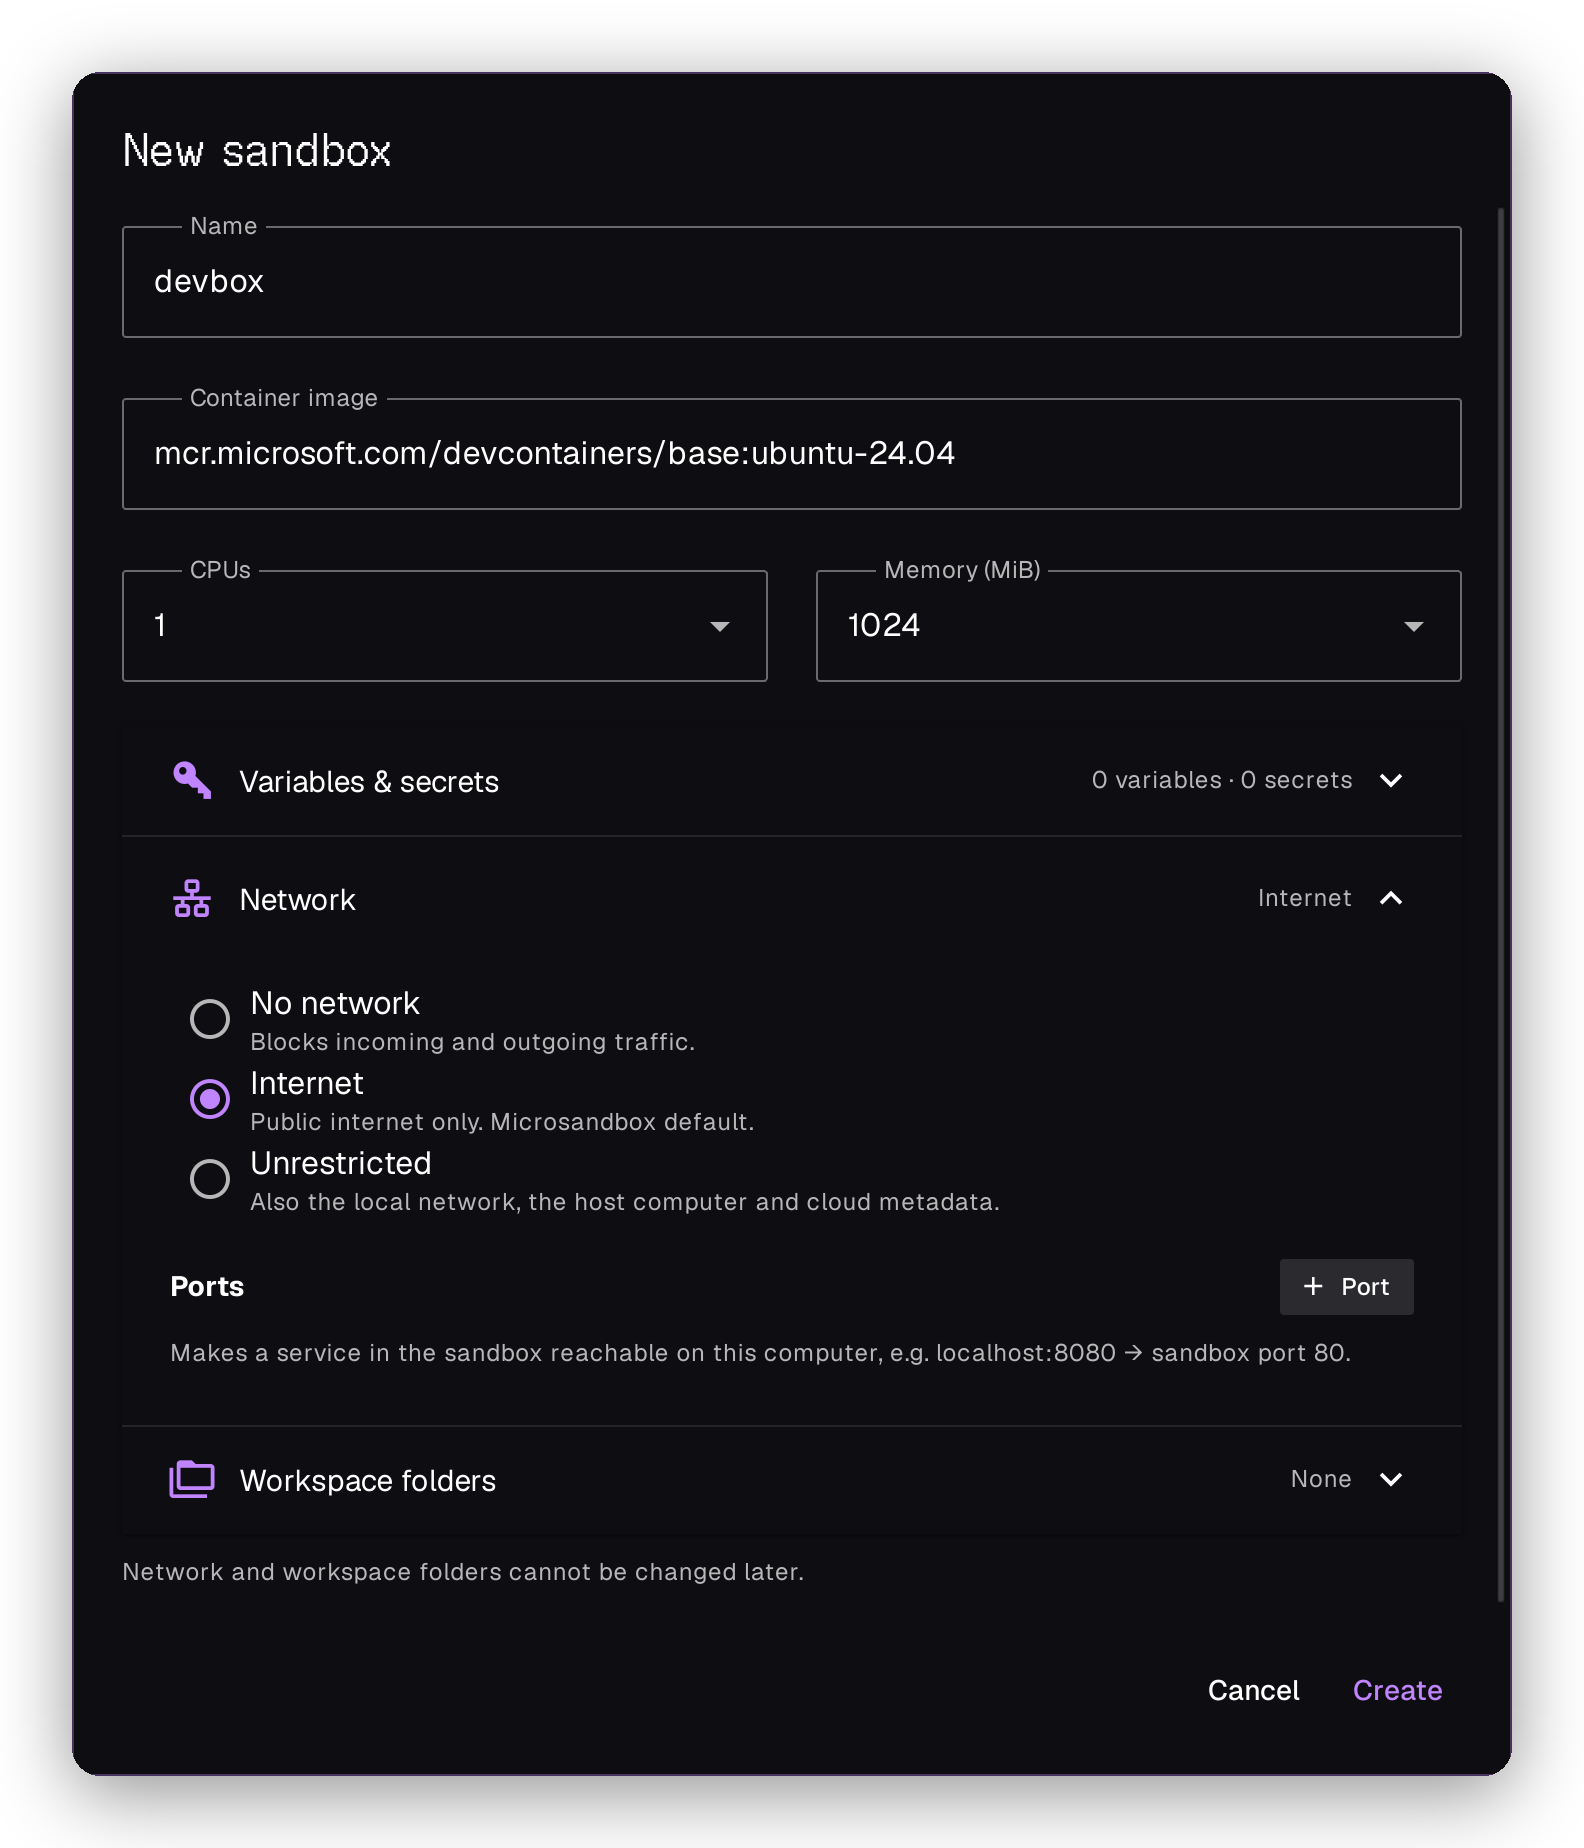
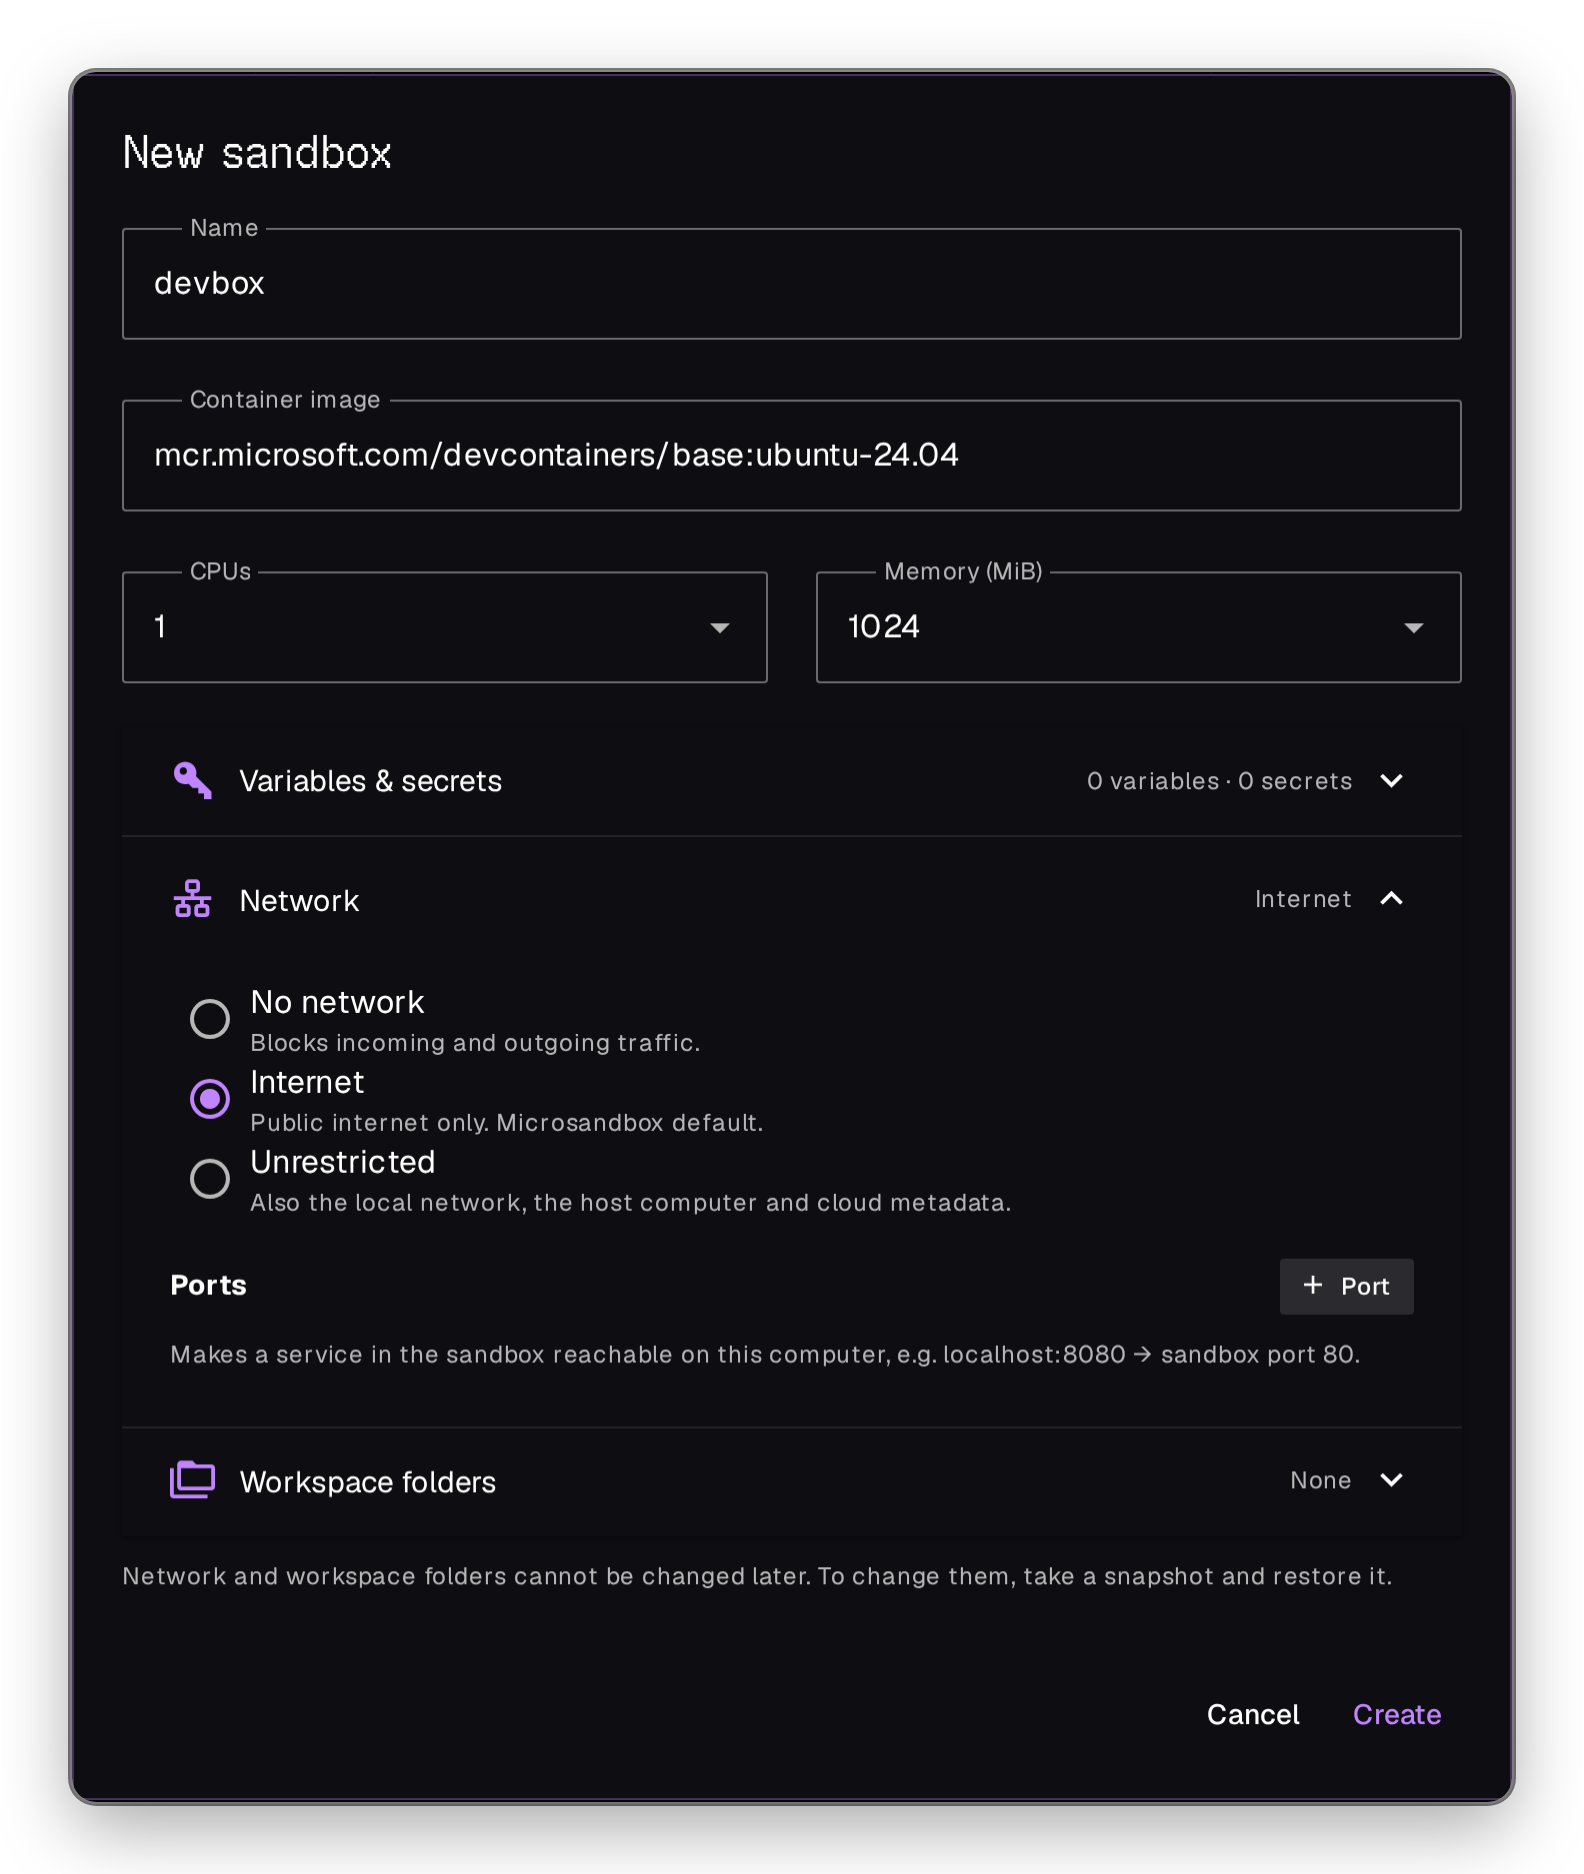
Release 0.2.0 with snapshots and file uploads

diff --git a/CHANGELOG.md b/CHANGELOG.md
@@ -1,5 +1,12 @@
 # Changelog
 
+## 0.2.0
+
+- Take snapshots of a sandbox on its card, and delete them again.
+- Restore a snapshot into a new sandbox. You can choose a new network and new folders for it.
+- Deleting a sandbox also deletes its snapshots.
+- Upload files from your computer into a running sandbox.
+
 ## 0.1.1
 
 - Update to [Microsandbox 0.7.16](https://github.com/superradcompany/microsandbox/releases/tag/v0.7.16).
